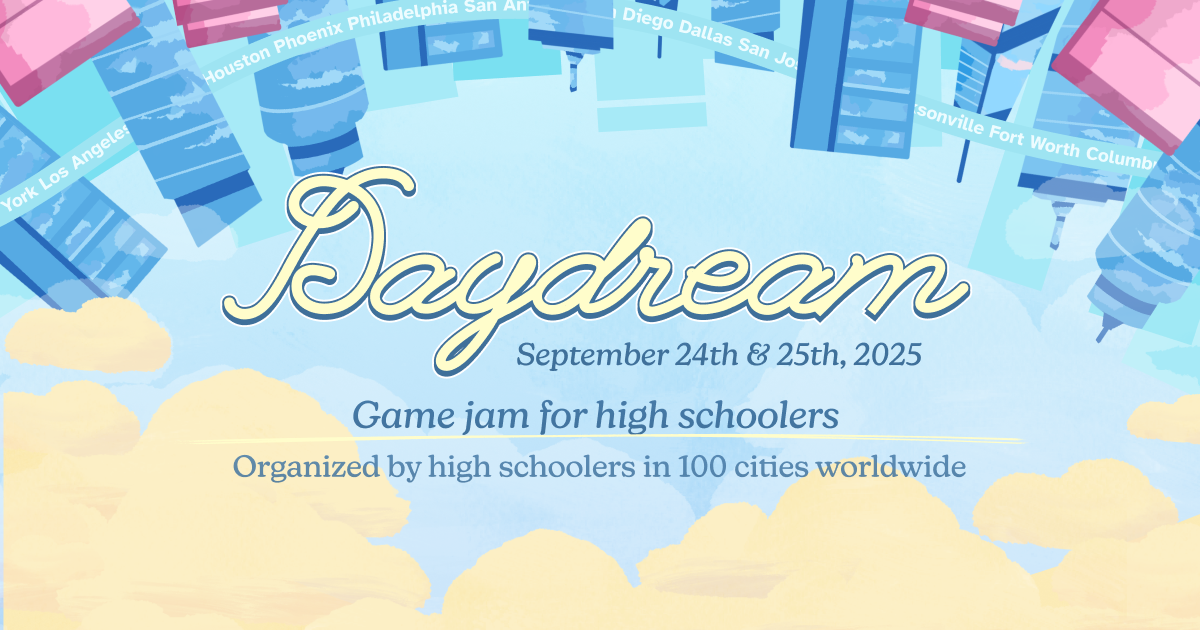
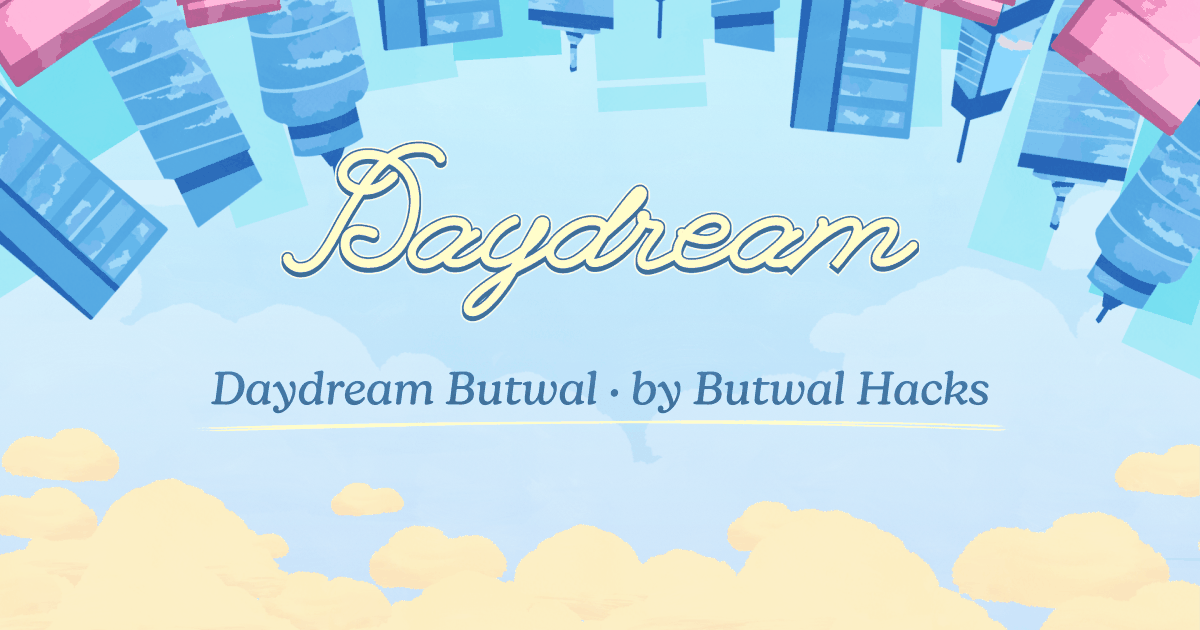
Use a Butwal-edition share image designed in Figma (#7)
Replace the generic Hack Club og.png / og-image.png with a 1200x630
image designed in Figma from the site's own hero assets (sky gradient,
upside-down buildings, clouds, brushstroke texture, Daydream logo) and
the caption 'Daydream Butwal · by Butwal Hacks' in the site's serif.

Move og:image, og:image:type/width/height/alt, twitter:card and
twitter:image into the root layout so every page carries the same
absolute https://daydream.butwalhacks.com/og-image.png tags, and drop
the per-page duplicates.

diff --git a/src/routes/guide/+layout.svelte b/src/routes/guide/+layout.svelte
@@ -30,12 +30,9 @@
 	<meta name="keywords" content="hackathon, organizing, guide, planning, logistics, venue, sponsors, outreach, community, events" />
 	<meta property="og:title" content="Daydream: An Organizer's Guide to Hackathons" />
 	<meta property="og:description" content="A complete guide to organizing an amazing hackathon, from logistics and venue planning to sponsor outreach and day-of coordination. Everything you need to create transformative experiences for your community." />
-	<meta property="og:image" content="/og-image.png" />
 	<meta property="og:type" content="website" />
-	<meta name="twitter:card" content="summary_large_image" />
 	<meta name="twitter:title" content="Daydream: An Organizer's Guide to Hackathons" />
 	<meta name="twitter:description" content="A complete guide to organizing an amazing hackathon, from logistics and venue planning to sponsor outreach and day-of coordination. Everything you need to create transformative experiences for your community." />
-	<meta name="twitter:image" content="/og-image.png" />
 </svelte:head>
 
 <style>

diff --git a/src/routes/example/+page.svelte b/src/routes/example/+page.svelte
@@ -768,17 +768,12 @@ Mumbai`.split("\n")
 	<meta property="og:url" content={currentUrl} />
 	<meta property="og:title" content={pageTitle} />
 	<meta property="og:description" content={pageDescription} />
-	<meta property="og:image" content="https://daydream.butwalhacks.com/og.png" />
-	<meta property="og:image:width" content="1200" />
-	<meta property="og:image:height" content="630" />
 	<meta property="og:site_name" content="Daydream" />
 	
 	<!-- Twitter -->
-	<meta property="twitter:card" content="summary_large_image" />
 	<meta property="twitter:url" content={currentUrl} />
 	<meta property="twitter:title" content={pageTitle} />
 	<meta property="twitter:description" content={pageDescription} />
-	<meta property="twitter:image" content="https://daydream.butwalhacks.com/og-image.png" />
 	<meta property="twitter:creator" content="@hackclub" />
 	<meta property="twitter:site" content="@hackclub" />
 	

diff --git a/src/routes/novi/+page.svelte b/src/routes/novi/+page.svelte
@@ -758,17 +758,12 @@ Mumbai`.split("\n")
 	<meta property="og:url" content={currentUrl} />
 	<meta property="og:title" content={pageTitle} />
 	<meta property="og:description" content={pageDescription} />
-	<meta property="og:image" content="https://daydream.butwalhacks.com/og.png" />
-	<meta property="og:image:width" content="1200" />
-	<meta property="og:image:height" content="630" />
 	<meta property="og:site_name" content="Daydream" />
 	
 	<!-- Twitter -->
-	<meta property="twitter:card" content="summary_large_image" />
 	<meta property="twitter:url" content={currentUrl} />
 	<meta property="twitter:title" content={pageTitle} />
 	<meta property="twitter:description" content={pageDescription} />
-	<meta property="twitter:image" content="https://daydream.butwalhacks.com/og-image.png" />
 	<meta property="twitter:creator" content="@hackclub" />
 	<meta property="twitter:site" content="@hackclub" />
 	

diff --git a/src/routes/+page.svelte b/src/routes/+page.svelte
@@ -633,17 +633,12 @@
 	<meta property="og:url" content={currentUrl} />
 	<meta property="og:title" content={pageTitle} />
 	<meta property="og:description" content={pageDescription} />
-	<meta property="og:image" content="https://daydream.butwalhacks.com/og.png" />
-	<meta property="og:image:width" content="1200" />
-	<meta property="og:image:height" content="630" />
 	<meta property="og:site_name" content="Daydream" />
 	
 	<!-- Twitter -->
-	<meta property="twitter:card" content="summary_large_image" />
 	<meta property="twitter:url" content={currentUrl} />
 	<meta property="twitter:title" content={pageTitle} />
 	<meta property="twitter:description" content={pageDescription} />
-	<meta property="twitter:image" content="https://daydream.butwalhacks.com/og-image.png" />
 	<meta property="twitter:creator" content="@hackclub" />
 	<meta property="twitter:site" content="@hackclub" />
 	

diff --git a/src/routes/+layout.svelte b/src/routes/+layout.svelte
@@ -2,6 +2,20 @@
 	import '../app.css';
 
 	let { children } = $props();
+
+	const ogImage = 'https://daydream.butwalhacks.com/og-image.png';
+	const ogImageAlt = 'Daydream logo in a pastel sky framed by upside-down city buildings and clouds, with the caption Daydream Butwal · by Butwal Hacks';
 </script>
+
+<svelte:head>
+	<meta property="og:image" content={ogImage} />
+	<meta property="og:image:type" content="image/png" />
+	<meta property="og:image:width" content="1200" />
+	<meta property="og:image:height" content="630" />
+	<meta property="og:image:alt" content={ogImageAlt} />
+	<meta name="twitter:card" content="summary_large_image" />
+	<meta name="twitter:image" content={ogImage} />
+	<meta name="twitter:image:alt" content={ogImageAlt} />
+</svelte:head>
 
 {@render children()}
